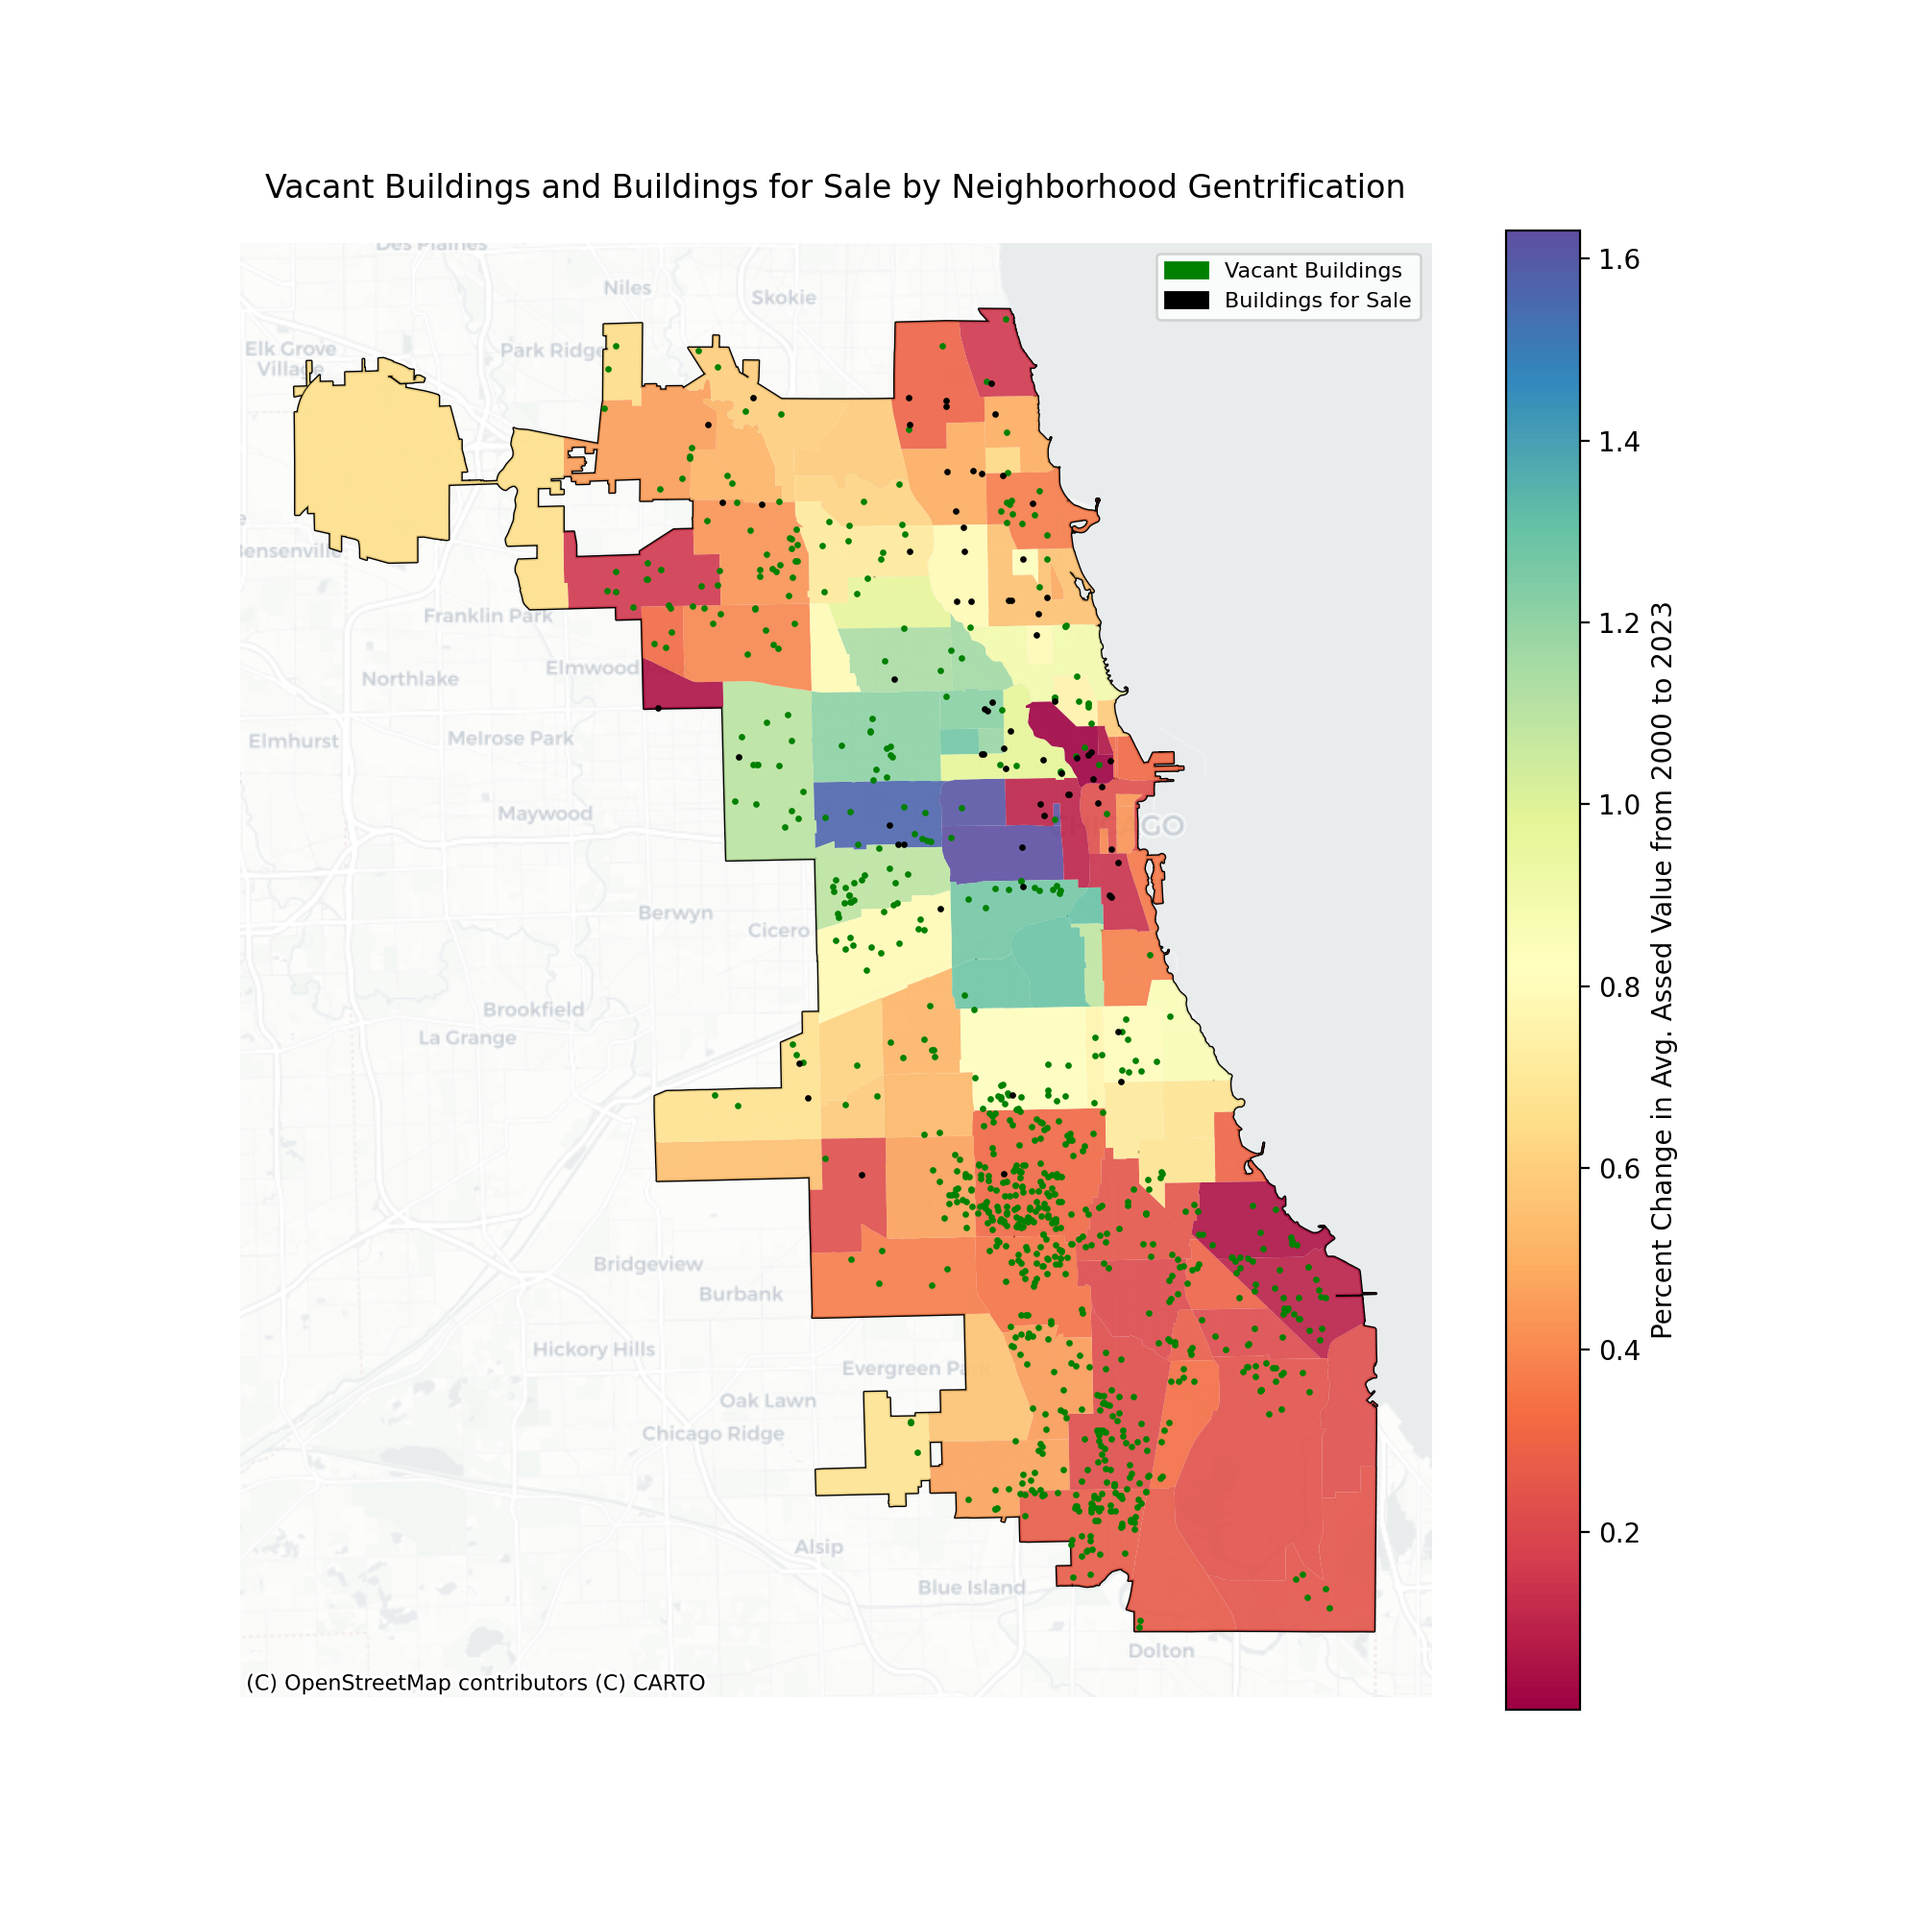
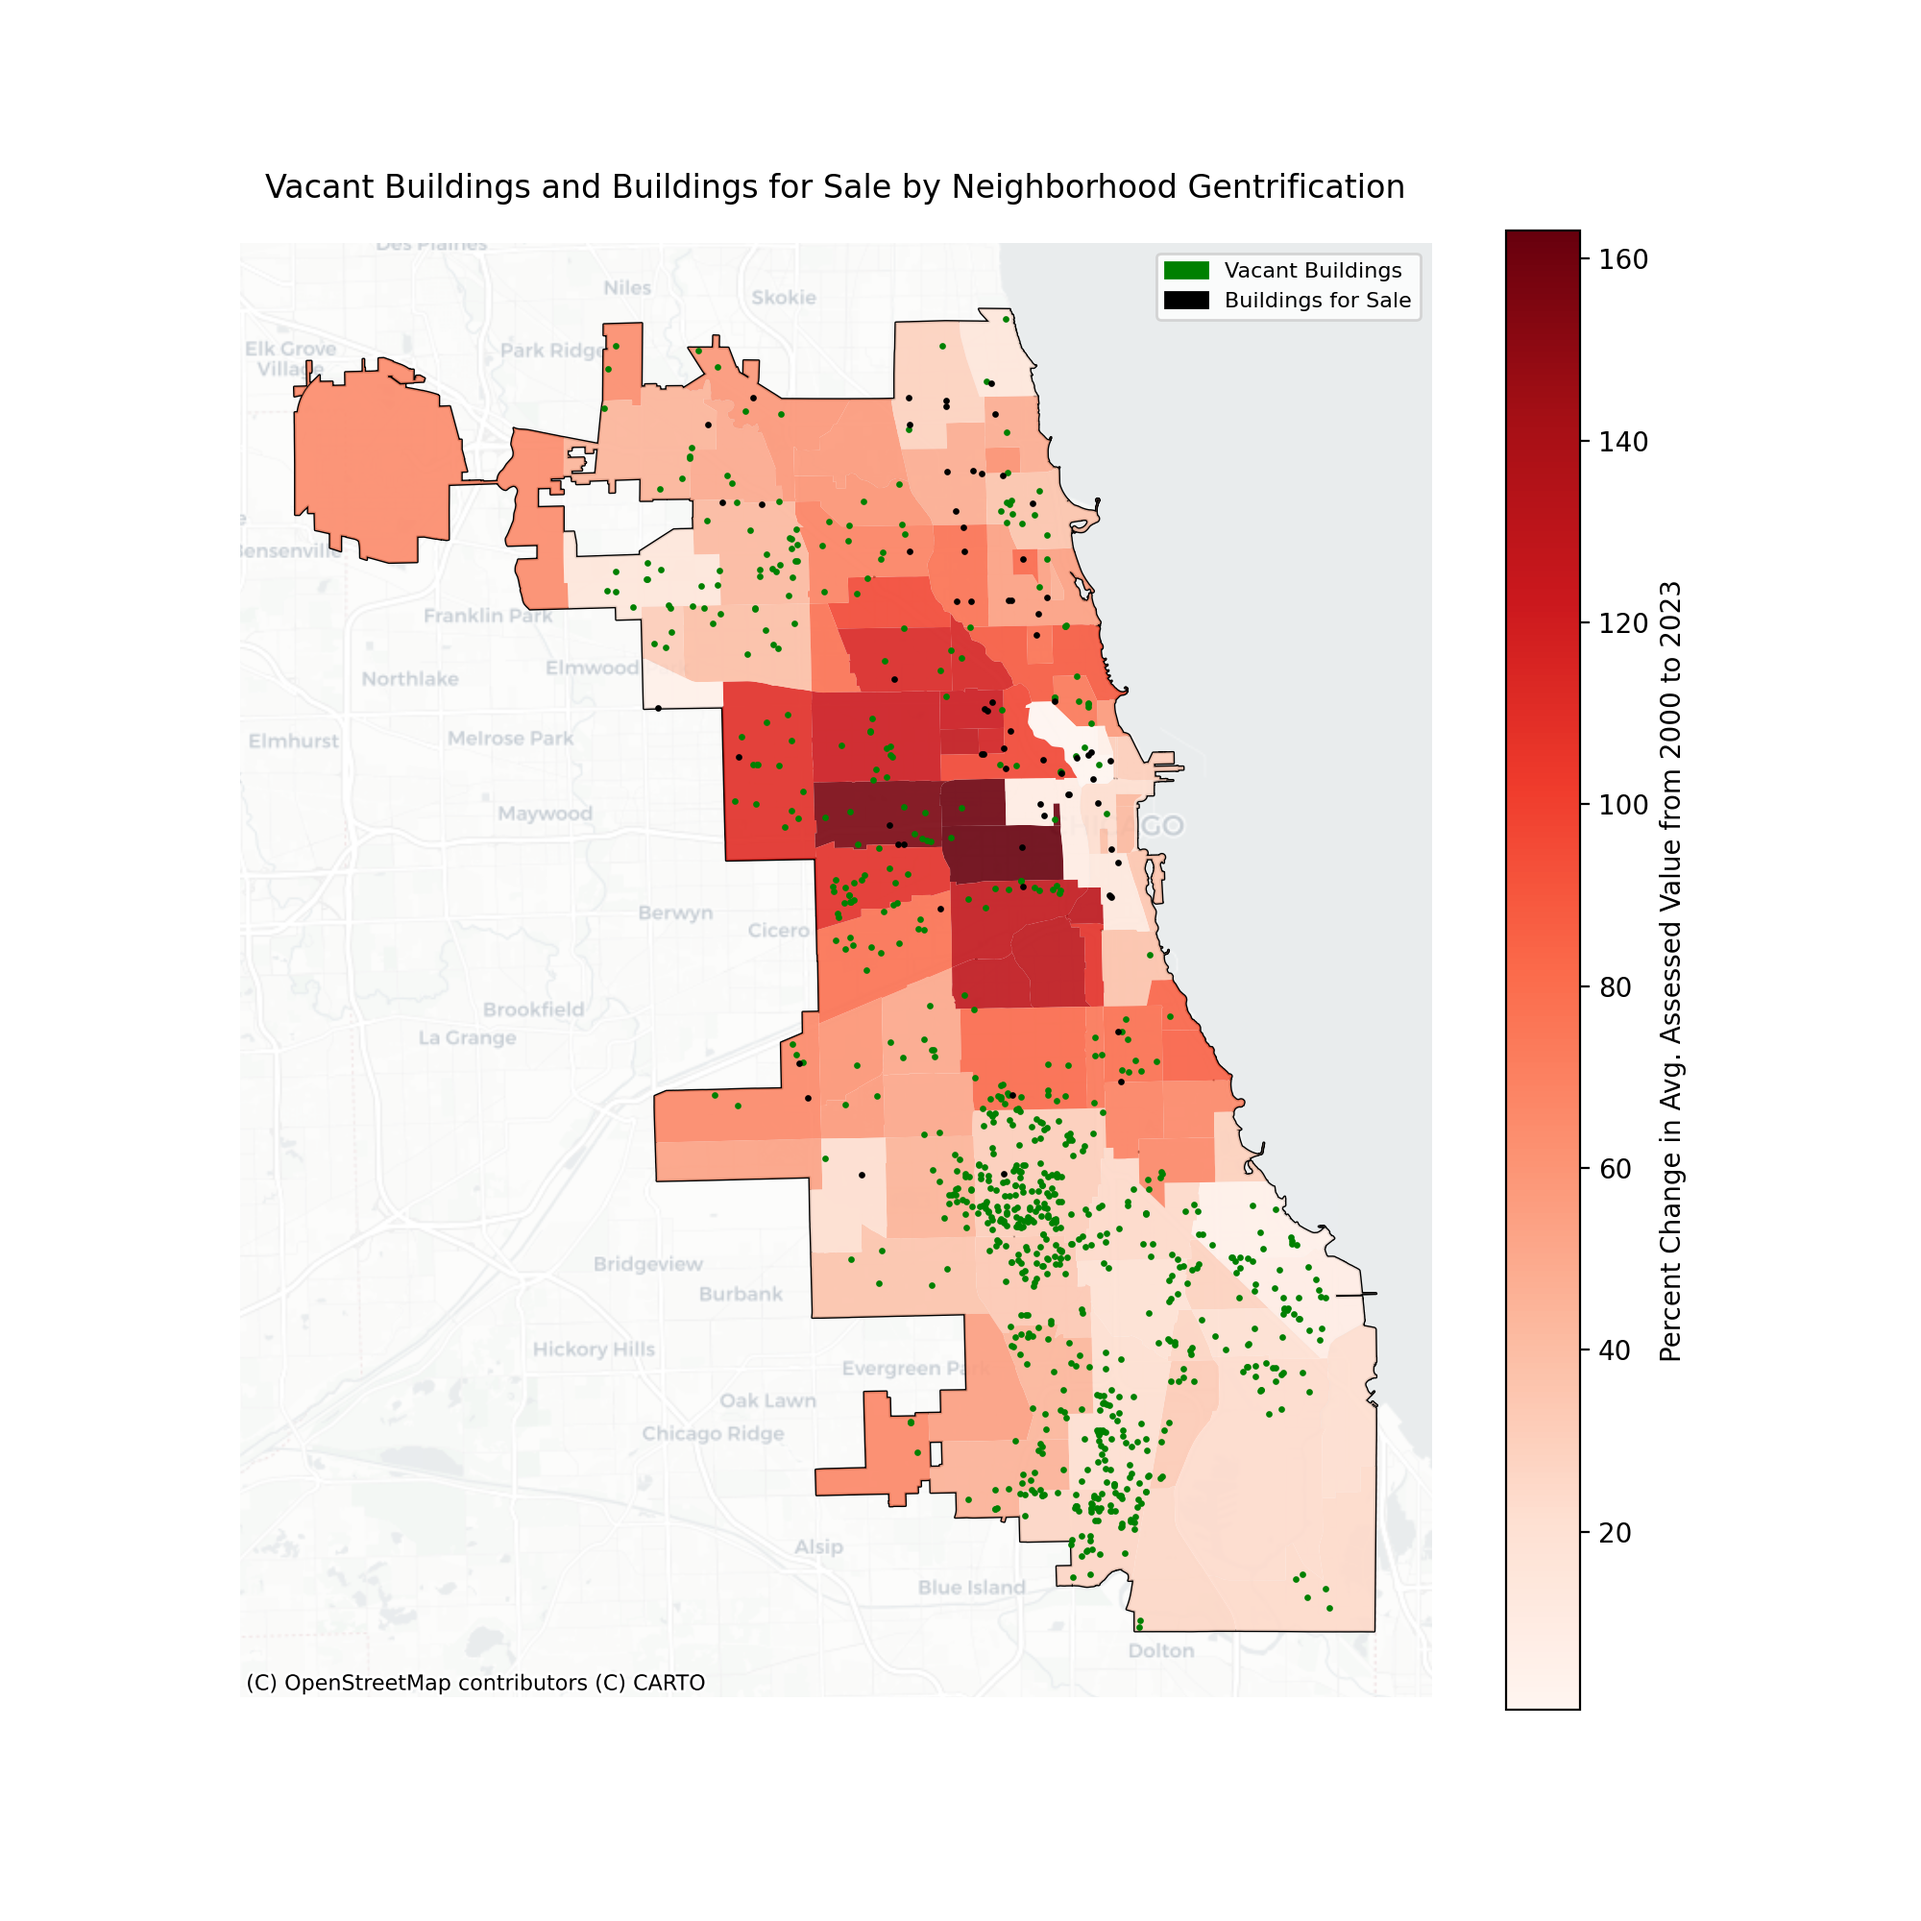
Changes to analysis

Changed region(s): [[0.155, 0.155, 0.744, 0.868], [0.775, 0.124, 0.899, 0.899]]

diff --git a/Code/maps_buildings.py b/Code/maps_buildings.py
@@ -27,8 +27,8 @@ neighborhood_gdf.dissolve().boundary.to_crs(epsg=3857).plot(ax=ax,
                                                             zorder=1)
 merged_neighborhoods_gdf.to_crs(epsg=3857).plot(ax=ax, 
                                                 column="percent_ch", 
-                                                legend_kwds={'label': "Percent Change in Avg. Assed Value from 2000 to 2023", "orientation": "vertical"},
-                                                cmap='Spectral', 
+                                                legend_kwds={'label': "Percent Change in Avg. Assessed Value from 2000 to 2023", "orientation": "vertical"},
+                                                cmap='Reds', 
                                                 legend=True, 
                                                 alpha=0.9)
 vacant_buildings_gdf.to_crs(epsg=3857).plot(ax=ax, 

diff --git a/Code/cleaning_building_data.py b/Code/cleaning_building_data.py
@@ -9,7 +9,6 @@ import matplotlib.patches as mpatches
 import numpy as np
 
 path = os.getcwd()
-
 vacant_buildings = pd.read_csv(os.path.join(path, "Data/Raw/311_Service_Requests_20250330.csv"))
 neighborhoods = pd.read_csv(os.path.join(path, "Data/Raw/Neighborhoods.csv"))
 sale_buildings = pd.read_csv(os.path.join(path, "Data/Raw/Crexi_Building_Data.csv"))
